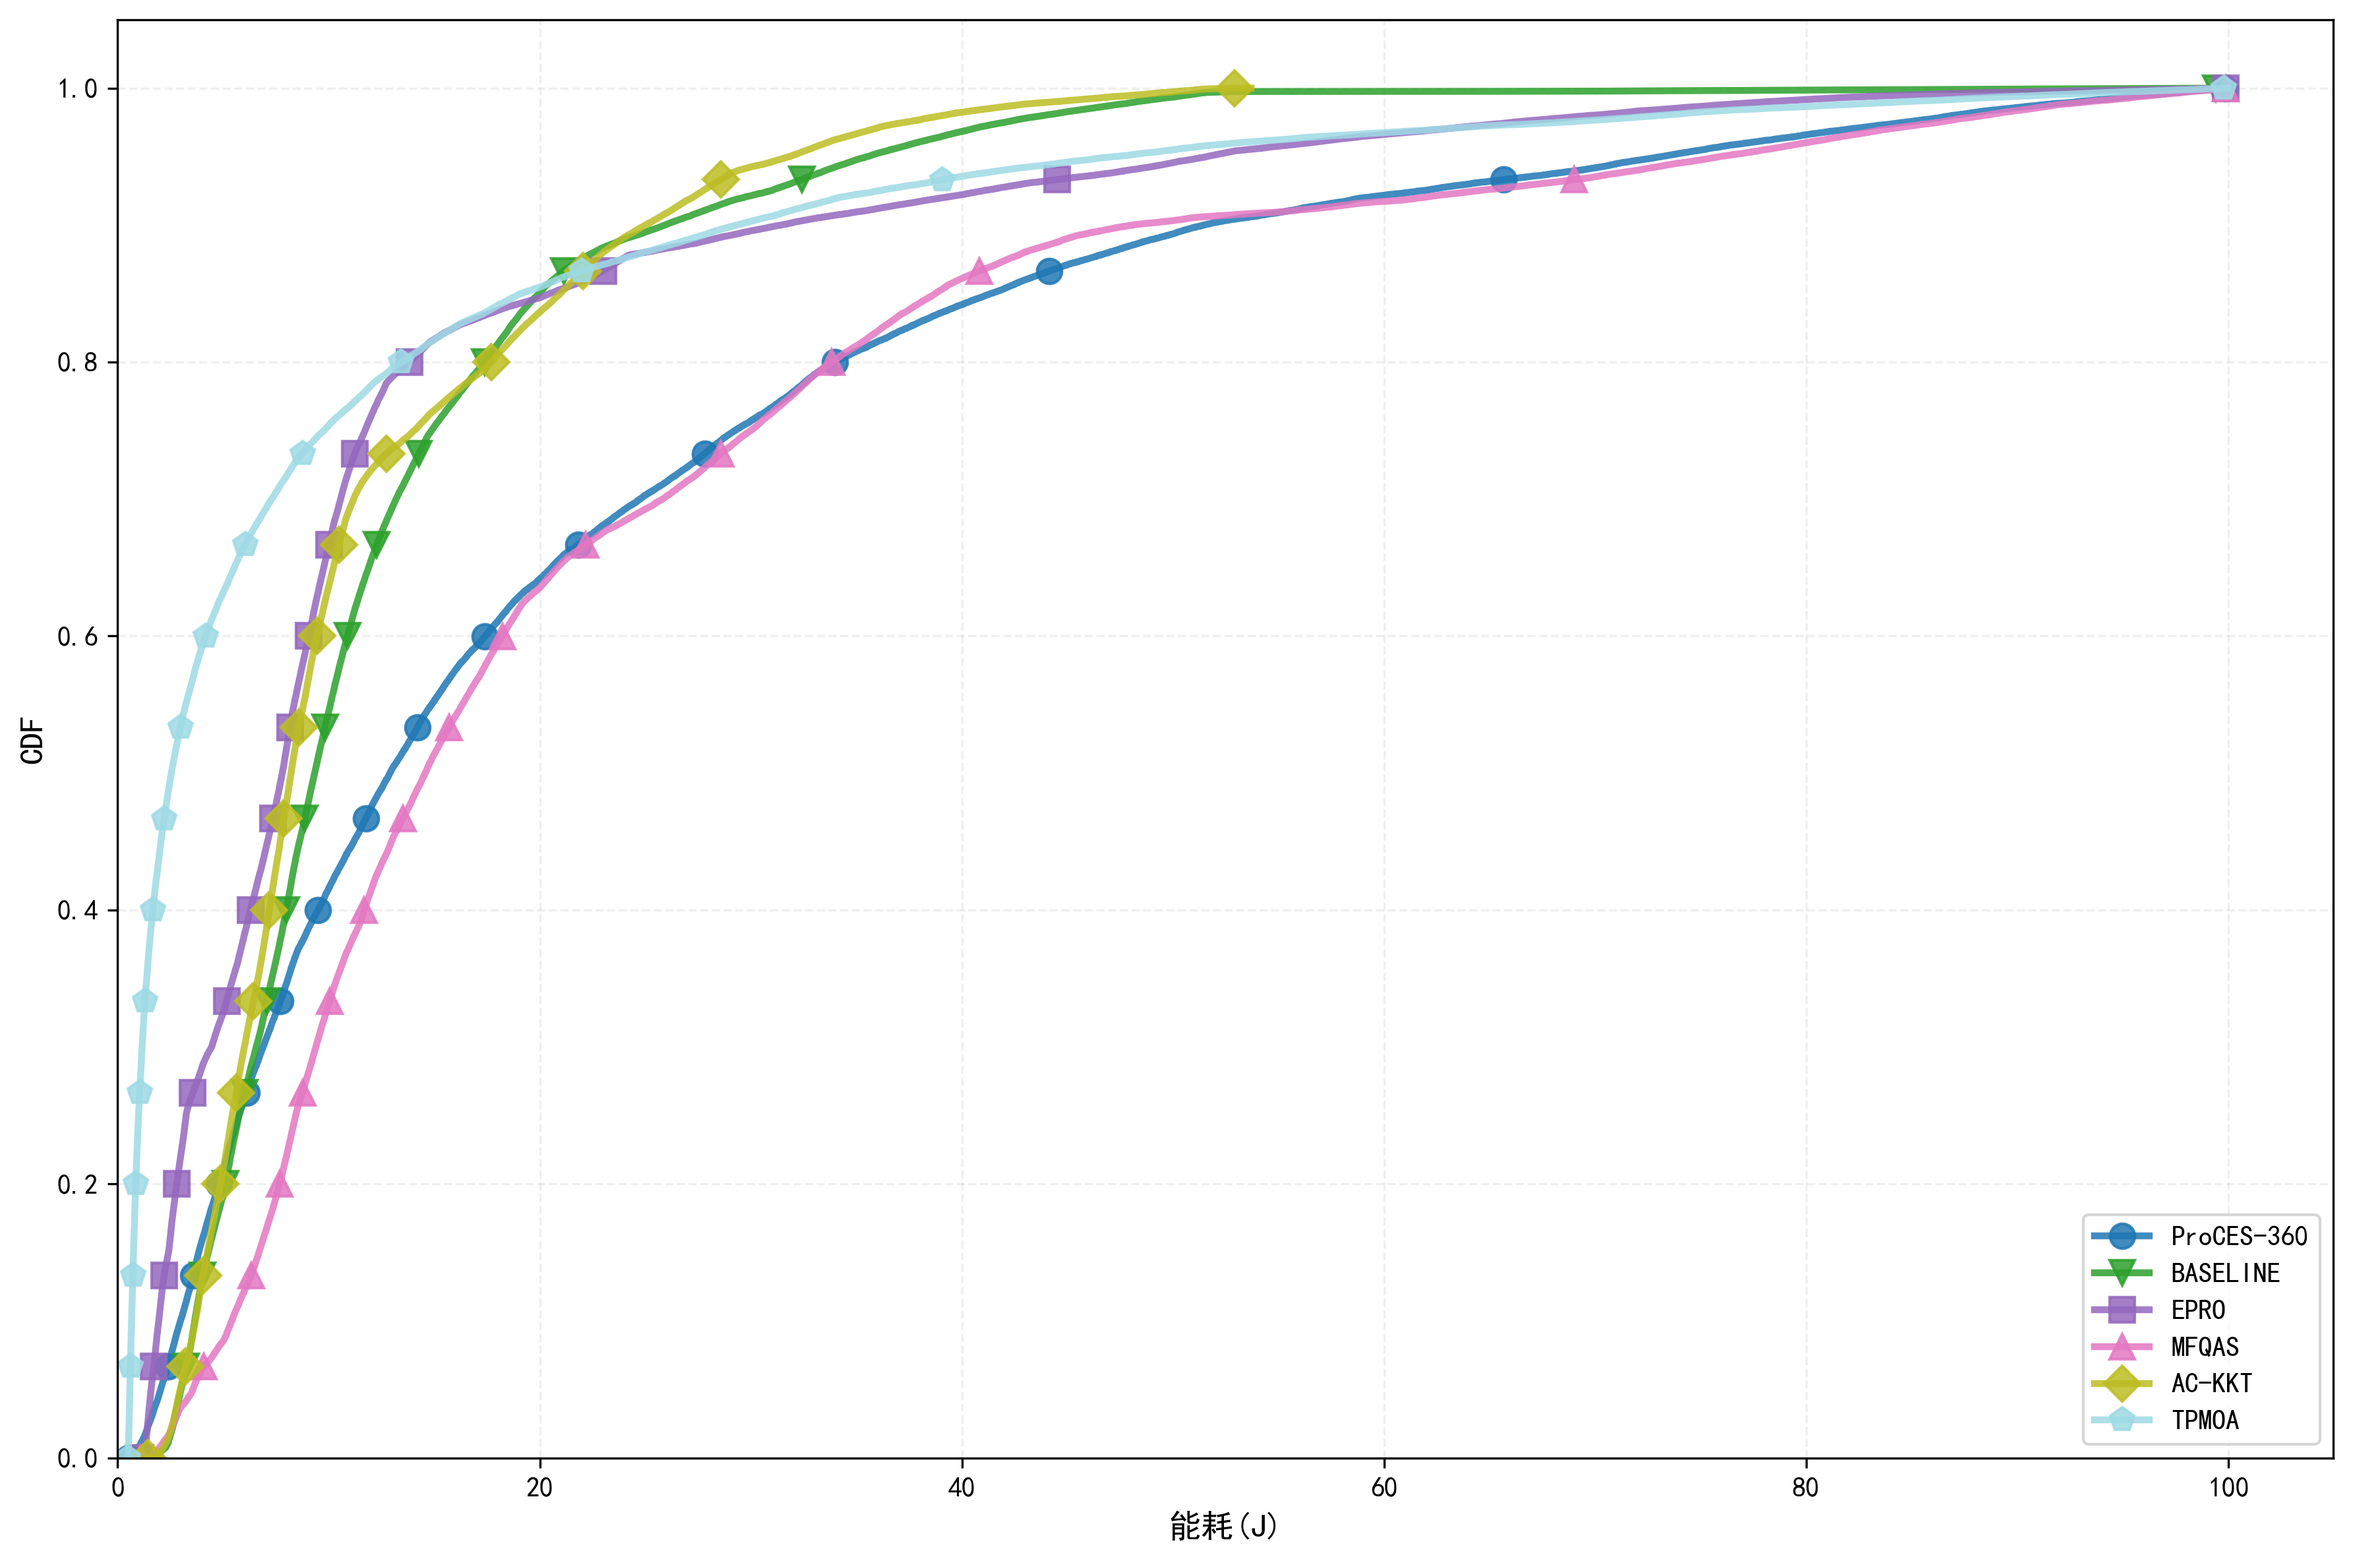
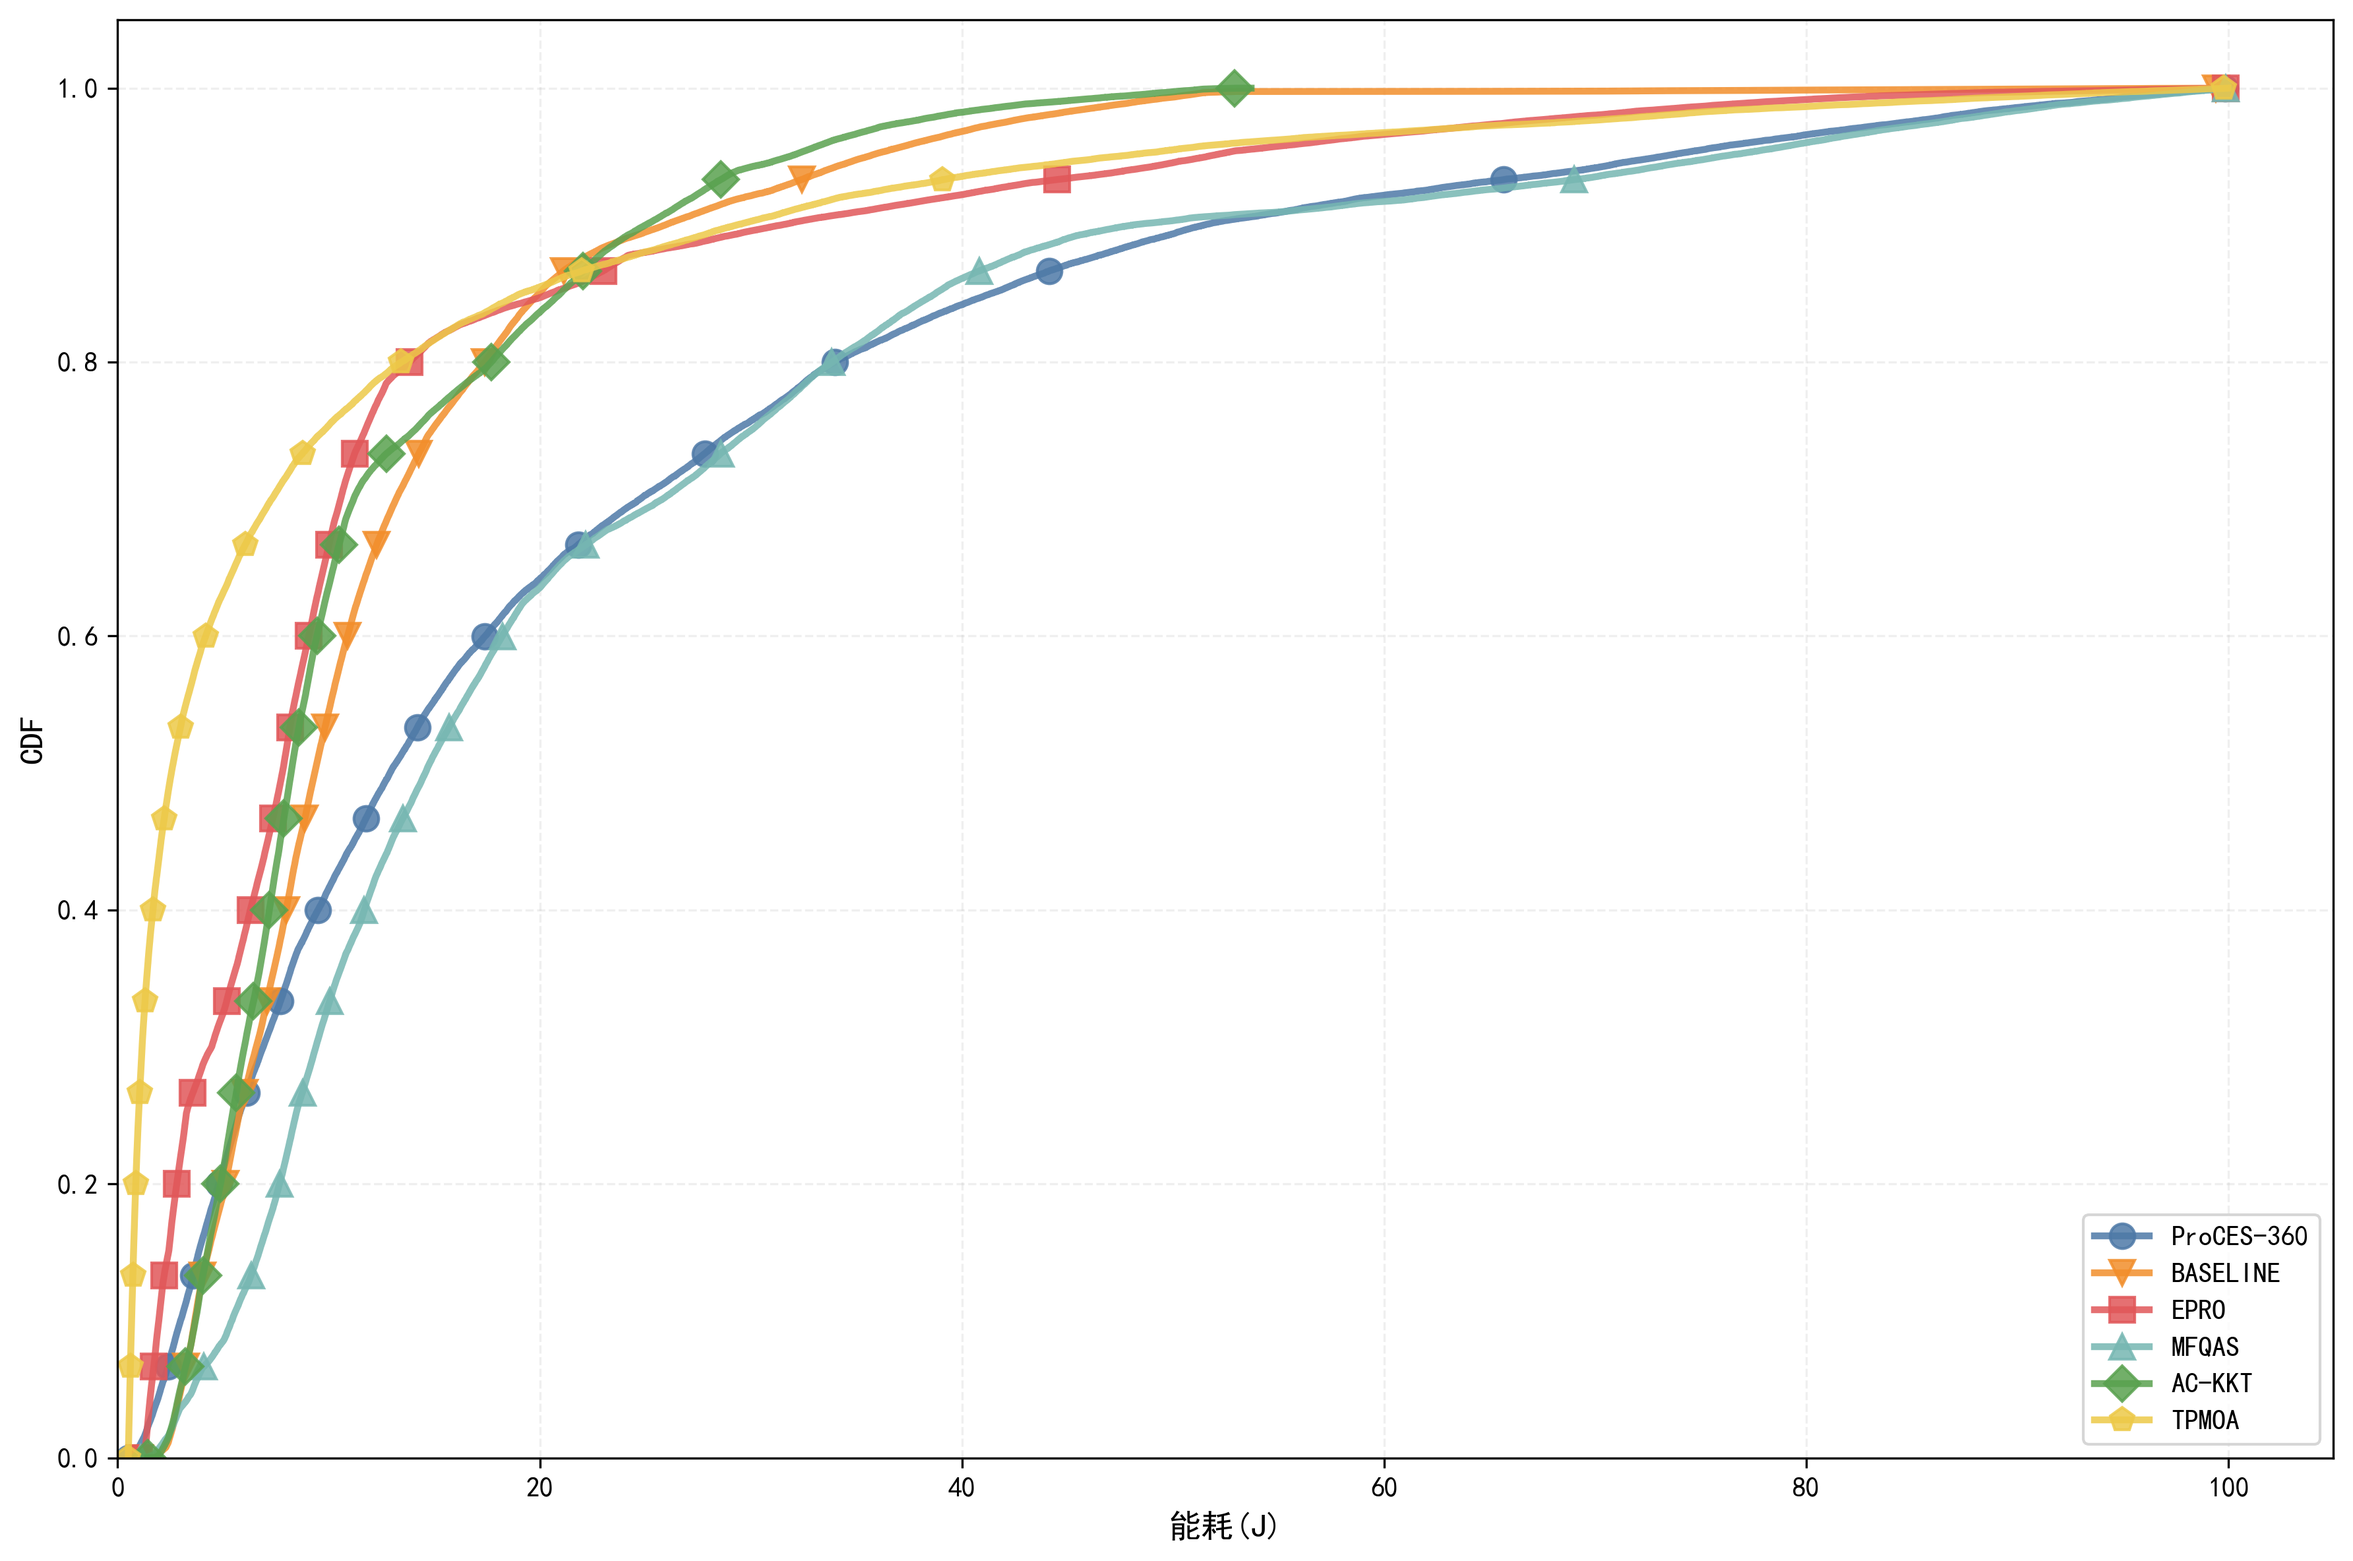
画完全部实验图

diff --git a/plots/fair/task_fair/energy_consume/energy_consume.py b/plots/fair/task_fair/energy_consume/energy_consume.py
@@ -43,7 +43,14 @@ def plot_bandwidth_cdf(data_list, colors=None, markers=None, labels=None,
 
     # 设置默认值
     if colors is None:
-        colors = plt.cm.tab10(np.linspace(0, 1, n_lines))
+        colors = [
+            '#4E79A7',  # 深蓝色
+            '#F28E2B',  # 橙色
+            '#E15759',  # 红色
+            '#76B7B2',  # 蓝绿色
+            '#59A14F',  # 绿色
+            '#EDC948'  # 黄色
+        ]
 
     if markers is None:
         markers = ['o', 'v', 's', '^', 'D', 'p', '*', 'X']
@@ -113,12 +120,19 @@ if __name__ == "__main__":
     ACKKT_live_delay_list = np.load('AC-KKT_consumed_energy_list.npy').tolist()
     TPMOA_live_delay_list = np.load('TPMOA_consumed_energy_list.npy').tolist()
 
-
     # 组合所有数据
-    all_data = [ProCES360_live_delay_list, BASELINE_live_delay_list, EPRO_live_delay_list,MFQAS_live_delay_list, ACKKT_live_delay_list, TPMOA_live_delay_list]
+    all_data = [ProCES360_live_delay_list, BASELINE_live_delay_list, EPRO_live_delay_list, MFQAS_live_delay_list,
+                ACKKT_live_delay_list, TPMOA_live_delay_list]
 
     # 自定义颜色（使用tab20色彩映射生成6个颜色）
-    custom_colors = plt.cm.tab20(np.linspace(0, 1, 6))
+    custom_colors = [
+        '#4E79A7',  # 深蓝色
+        '#F28E2B',  # 橙色
+        '#E15759',  # 红色
+        '#76B7B2',  # 蓝绿色
+        '#59A14F',  # 绿色
+        '#EDC948'  # 黄色
+    ]
 
     # 自定义标记
     custom_markers = ['o', 'v', 's', '^', 'D', 'p']

diff --git a/plots/fair/task_fair/live_delay/live_delay.py b/plots/fair/task_fair/live_delay/live_delay.py
@@ -43,7 +43,14 @@ def plot_bandwidth_cdf(data_list, colors=None, markers=None, labels=None,
 
     # 设置默认值
     if colors is None:
-        colors = plt.cm.tab10(np.linspace(0, 1, n_lines))
+        colors = [
+            '#4E79A7',  # 深蓝色
+            '#F28E2B',  # 橙色
+            '#E15759',  # 红色
+            '#76B7B2',  # 蓝绿色
+            '#59A14F',  # 绿色
+            '#EDC948'  # 黄色
+        ]
 
     if markers is None:
         markers = ['o', 'v', 's', '^', 'D', 'p', '*', 'X']
@@ -113,12 +120,19 @@ if __name__ == "__main__":
     ACKKT_live_delay_list = np.load('AC-KKT_live_delay_list.npy').tolist()
     TPMOA_live_delay_list = np.load('TPMOA_live_delay_list.npy').tolist()
 
-
     # 组合所有数据
-    all_data = [ProCES360_live_delay_list, BASELINE_live_delay_list, EPRO_live_delay_list,MFQAS_live_delay_list, ACKKT_live_delay_list, TPMOA_live_delay_list]
+    all_data = [ProCES360_live_delay_list, BASELINE_live_delay_list, EPRO_live_delay_list, MFQAS_live_delay_list,
+                ACKKT_live_delay_list, TPMOA_live_delay_list]
 
     # 自定义颜色（使用tab20色彩映射生成6个颜色）
-    custom_colors = plt.cm.tab20(np.linspace(0, 1, 6))
+    custom_colors = [
+        '#4E79A7',  # 深蓝色
+        '#F28E2B',  # 橙色
+        '#E15759',  # 红色
+        '#76B7B2',  # 蓝绿色
+        '#59A14F',  # 绿色
+        '#EDC948'  # 黄色
+    ]
 
     # 自定义标记
     custom_markers = ['o', 'v', 's', '^', 'D', 'p']
